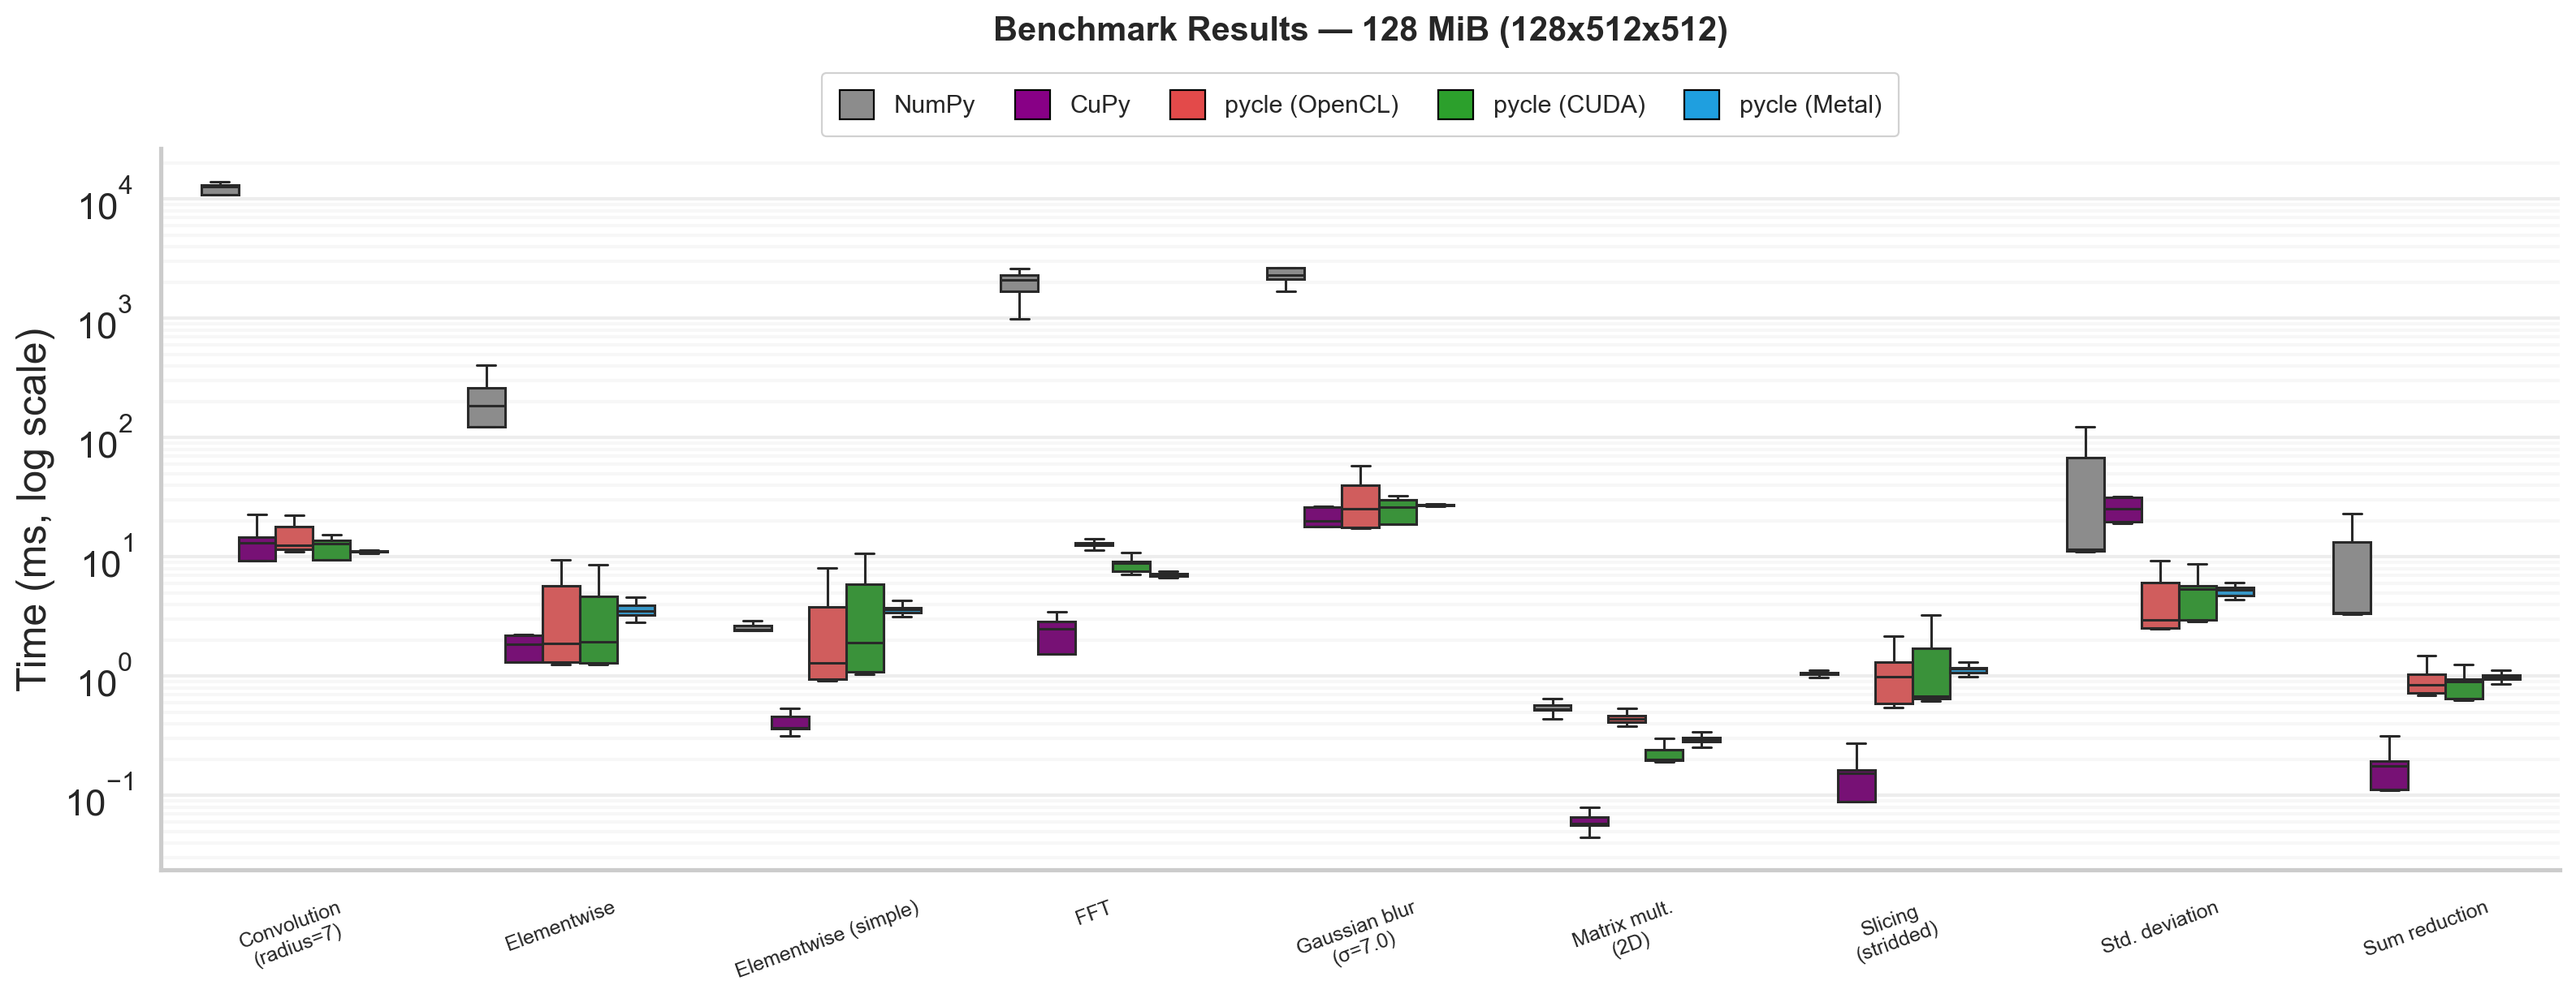
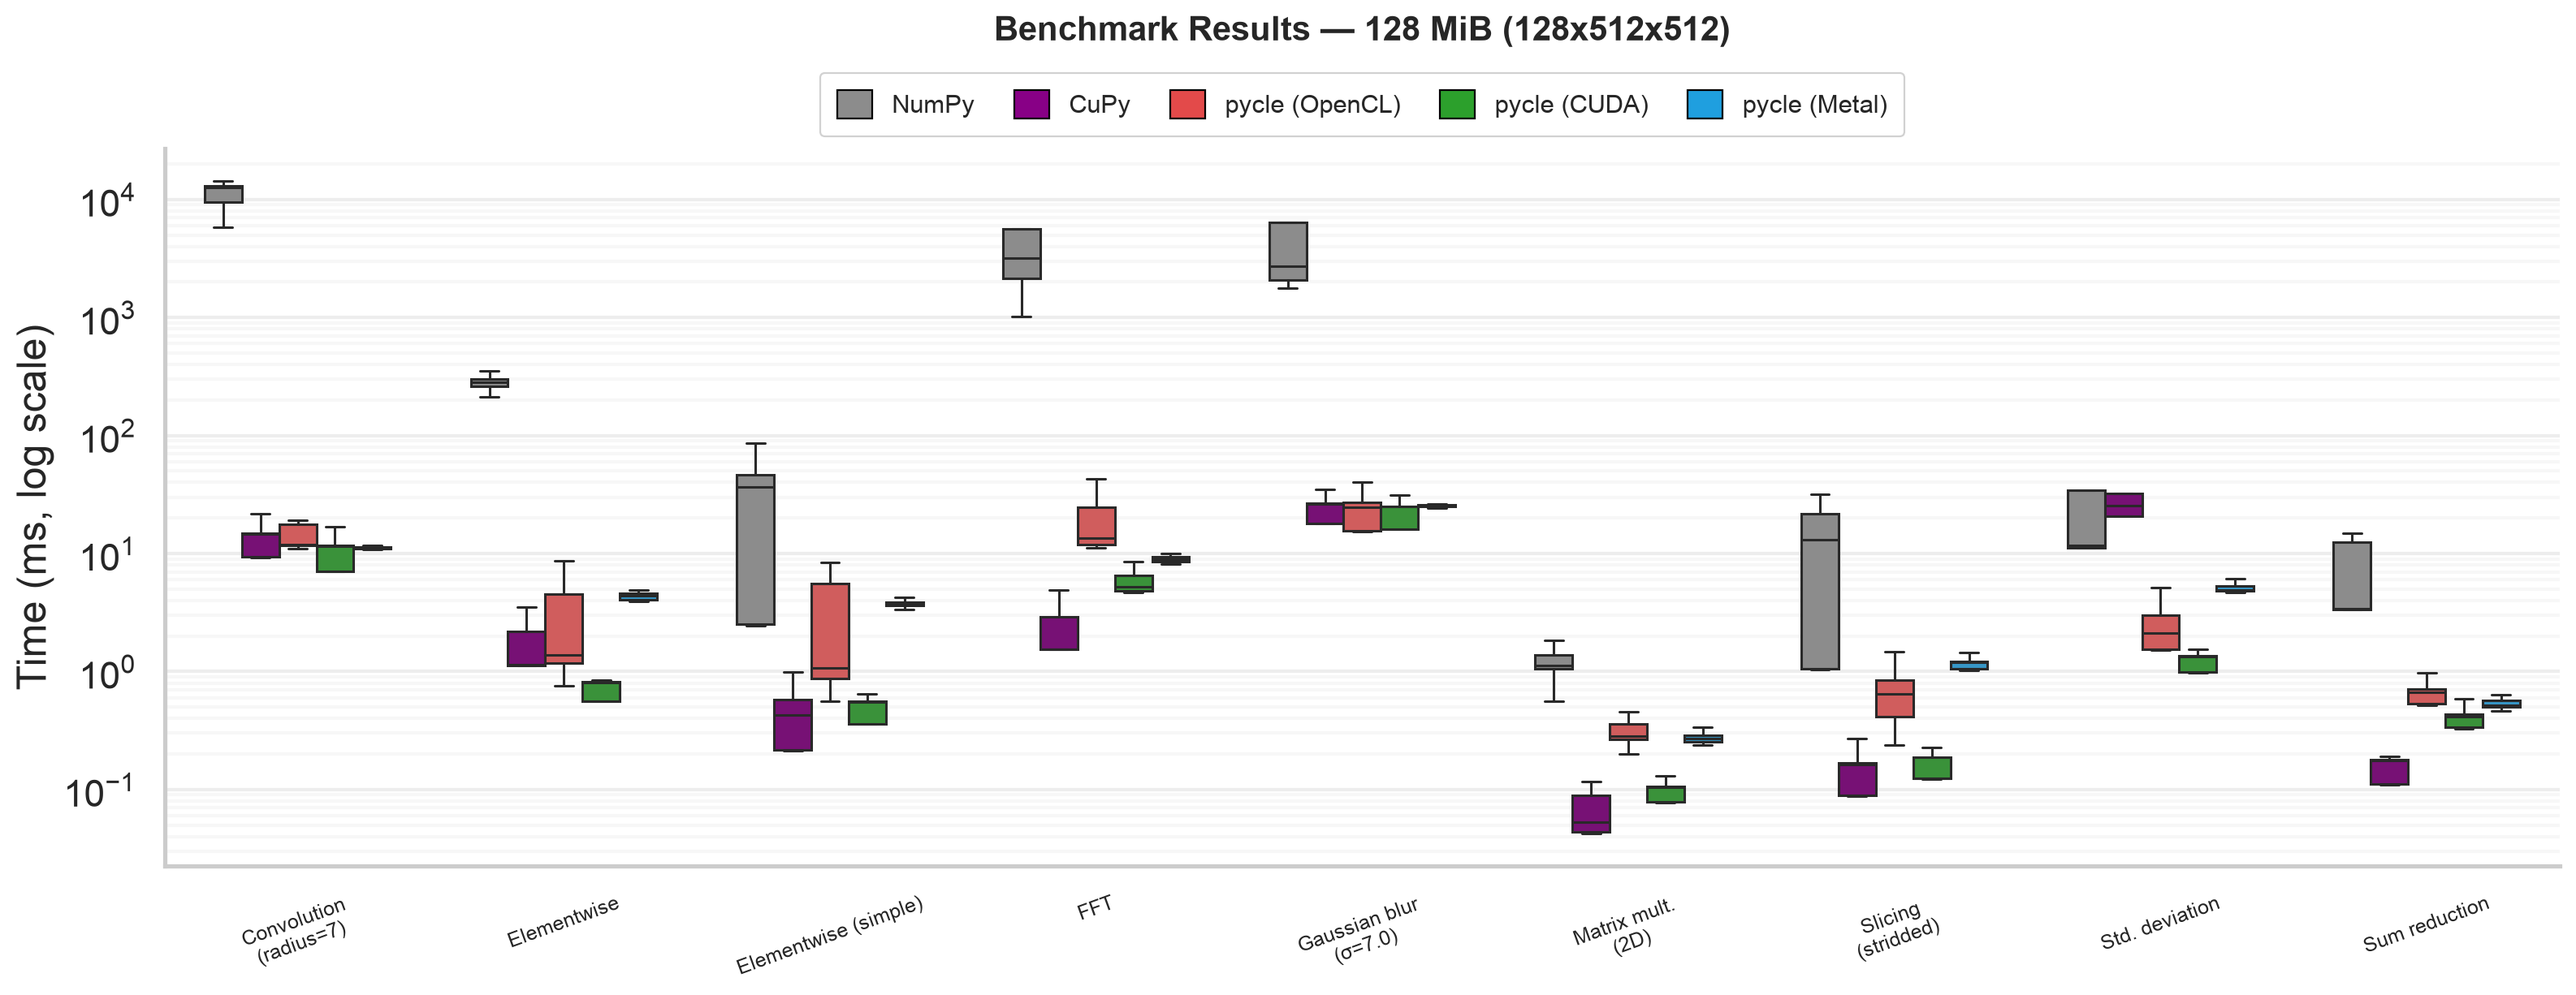
update benchmark

diff --git a/docs/clesperanto/benchmark.rst b/docs/clesperanto/benchmark.rst
@@ -1,12 +1,12 @@
 Benchmarking
 ############
 
-Benchmarking was done with the Python version of clesperanto, as it is the easiest to use and the most commonly used.
-We compared the performance of clesperanto, with its different backends, to the performance of the NumPy (CPU) and CuPy (GPU) libraries.
-The goal is not to compete, but to evaluate the performance of clesperanto against state-of-the-art libraries and to provide a reference for users choosing the best backend for their needs.
+Benchmarking was done with the Python version of clesperanto, as it is the easiest and the most commonly used, with baselines libraries NumPy and CuPy to compare against. 
+We compared the performance of the differents backends ``CUDA``, ``OpenCL``, and ``Metal`` to the performance of the ``NumPy`` (CPU) and ``CuPy`` (GPU) libraries.
+The goal is not to compete, but to observe and evaluate the performance of clesperanto against state-of-the-art libraries and to provide a reference for users choosing the best backend for their needs.
 
-The benchmark was designed and adapted from the benchmarking approach used by CuPy (https://cupy.dev/) and is available `here <https://github.com/clesperanto/clesperanto/tree/main/benchmarks>`__.
-It was run on a small (128MB) and a large (2GB) 3D array. Each operation was run multiple times and the average time was taken.
+The benchmark was designed and adapted from the benchmarking approach used by ``CuPy`` (https://cupy.dev/) and is available `here <https://github.com/clesperanto/clesperanto/tree/main/benchmarks>`__.
+It was run on a small (128MB) and a large (2GB) 3D array, with a warmup and repeated runs to compute an average time.
 
 .. container:: figure-centered
     
@@ -18,10 +18,18 @@ It was run on a small (128MB) and a large (2GB) 3D array. Each operation was run
         :alt: benchmarking results for 2GB 3D array
         :width: 90%
 
-Notes: 
+.. note::
 
-- CuPy Matrix multiplication rely on the ``cuBLAS`` library, which is highly optimized. OpenCL implementations will not be able to compete (https://cnugteren.github.io/tutorial/pages/page1.html) 
-- Slicing operations in CuPy relies on views, avoiding copying of data, which can explain high performance differences.
+    - CuPy Matrix multiplication rely on the ``cuBLAS`` library, which is highly optimized. OpenCL implementations will not be able to compete (https://cnugteren.github.io/tutorial/pages/page1.html) 
+    - Slicing operations in ``CuPy`` relies on views, avoiding copying of data, which can explain high performance differences.
+
+We can observe some interesting variability in the results of pyclesperanto which seems to be dependent on the OS and the GPU used. 
+It is usually advised to the use the pyclesperanto backend corresponding to the GPU vendor (e.g., ``CUDA`` for NVIDIA GPUs, ``Metal`` for Apple GPUs, and ``OpenCL`` for others) with some exceptions to Windows users, where ``OpenCL`` seems to be sometimes more efficient thant is ``CUDA`` counterpart.
+Overall, the results show that clesperanto is competitive with state-of-the-art libraries and can provide a valide alternative for users looking for an easy-to-use and efficient GPU computing library for Image Processing that can run on a wide range of systems and hardware.
+
+The Numpy was run on an ``Apple M5 Max`` and an ``Intel(R) Xeon(R) Gold 6326 CPU @ 2.90GHz``.
+Pyclesperanto was run on an ``Apple M5 Max``, an ``NVIDIA Quadro RTX 8000``, an ``NVIDIA Tesla V100``, and an ``NVIDIA A100``. 
+Cupy was run on the same devices as pyclesperanto, except for the ``Apple M5 Max`` which is not supported.
 
 Operations details
 ==================
@@ -35,28 +43,4 @@ Operations details
 - `Matrix multiplication <https://en.wikipedia.org/wiki/Matrix_multiplication>`_: Matrix multiplication of two 2D arrays (only the first slice is used)
 - Strided array slicing: Accessing a non-continuous part of an array
 - `Fast Fourier Transform <https://en.wikipedia.org/wiki/Fast_Fourier_transform>`_: Applying a FFT on an array
-
-
-Runners configuration
-=====================
-
-The benchmark combines results from different CPU and GPU runners. The following table shows the runners used for the benchmark.
-We aim to add more runners in the future as we extend our tests and gain access to more hardware. Do not hesitate to contact us if you have access to some fancy or uncommon hardware and want to contribute to the benchmark.
-
-.. table:: Runner Devices
-   :widths: auto
-   :align: left
-
-   =======================  ========================================  
-   GPUs                     CPUs                                      
-   =======================  ========================================  
-   Apple M5 Max             Apple M5 Max                              
-   NVIDIA GeForce RTX 3090  Intel(R) Xeon(R) Gold 6326 CPU @ 2.90GHz  
-   NVIDIA Tesla V100 32GB                                               
-   NVIDIA A100 40GB                                               
-   =======================  ========================================  
-
-
-
-
 
